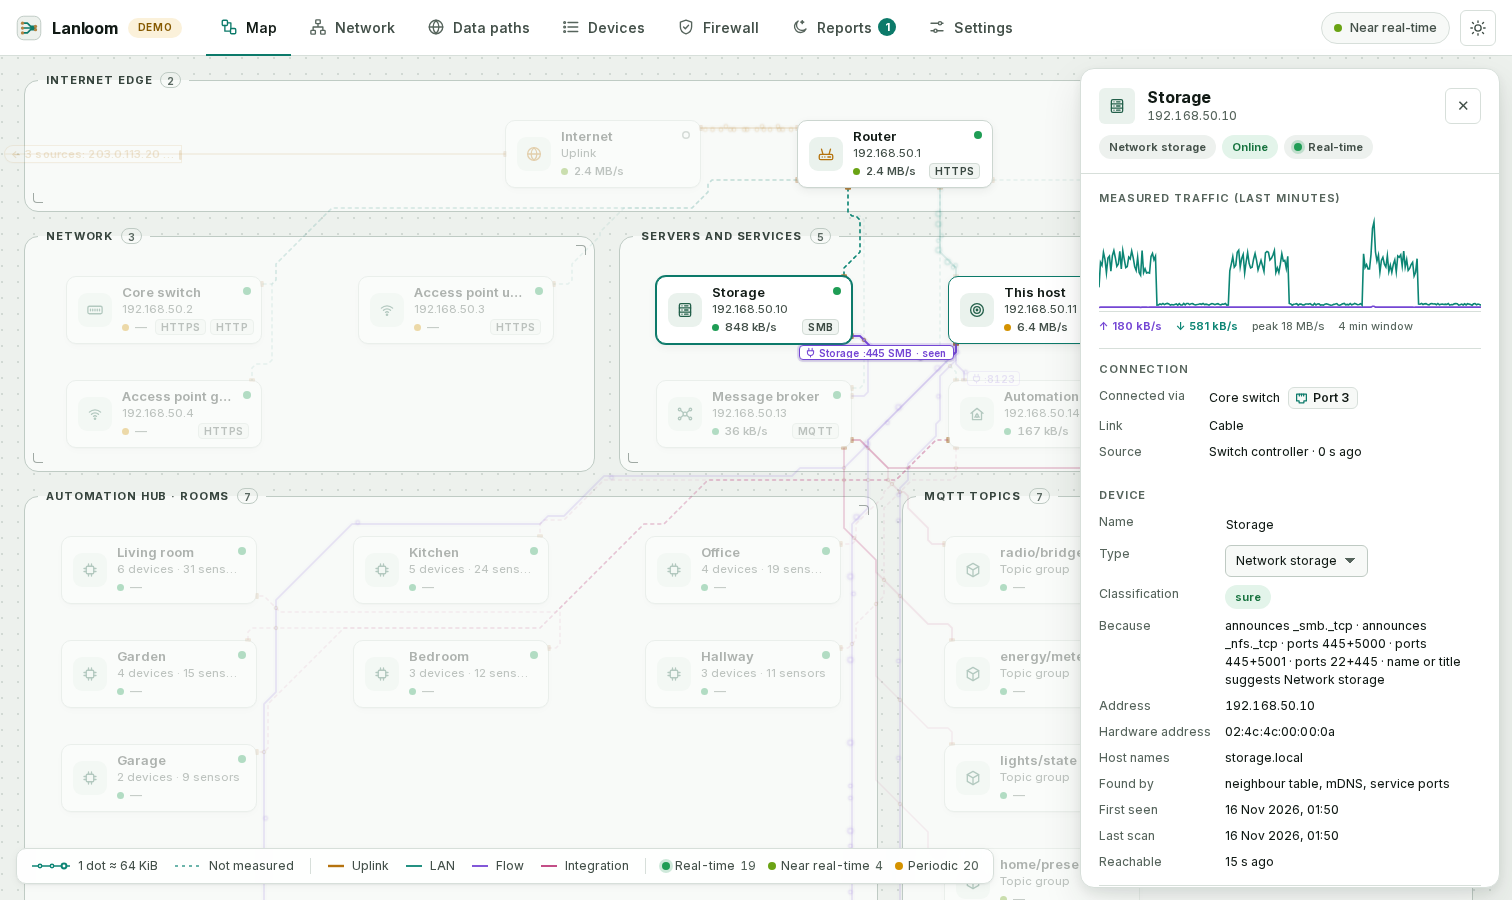
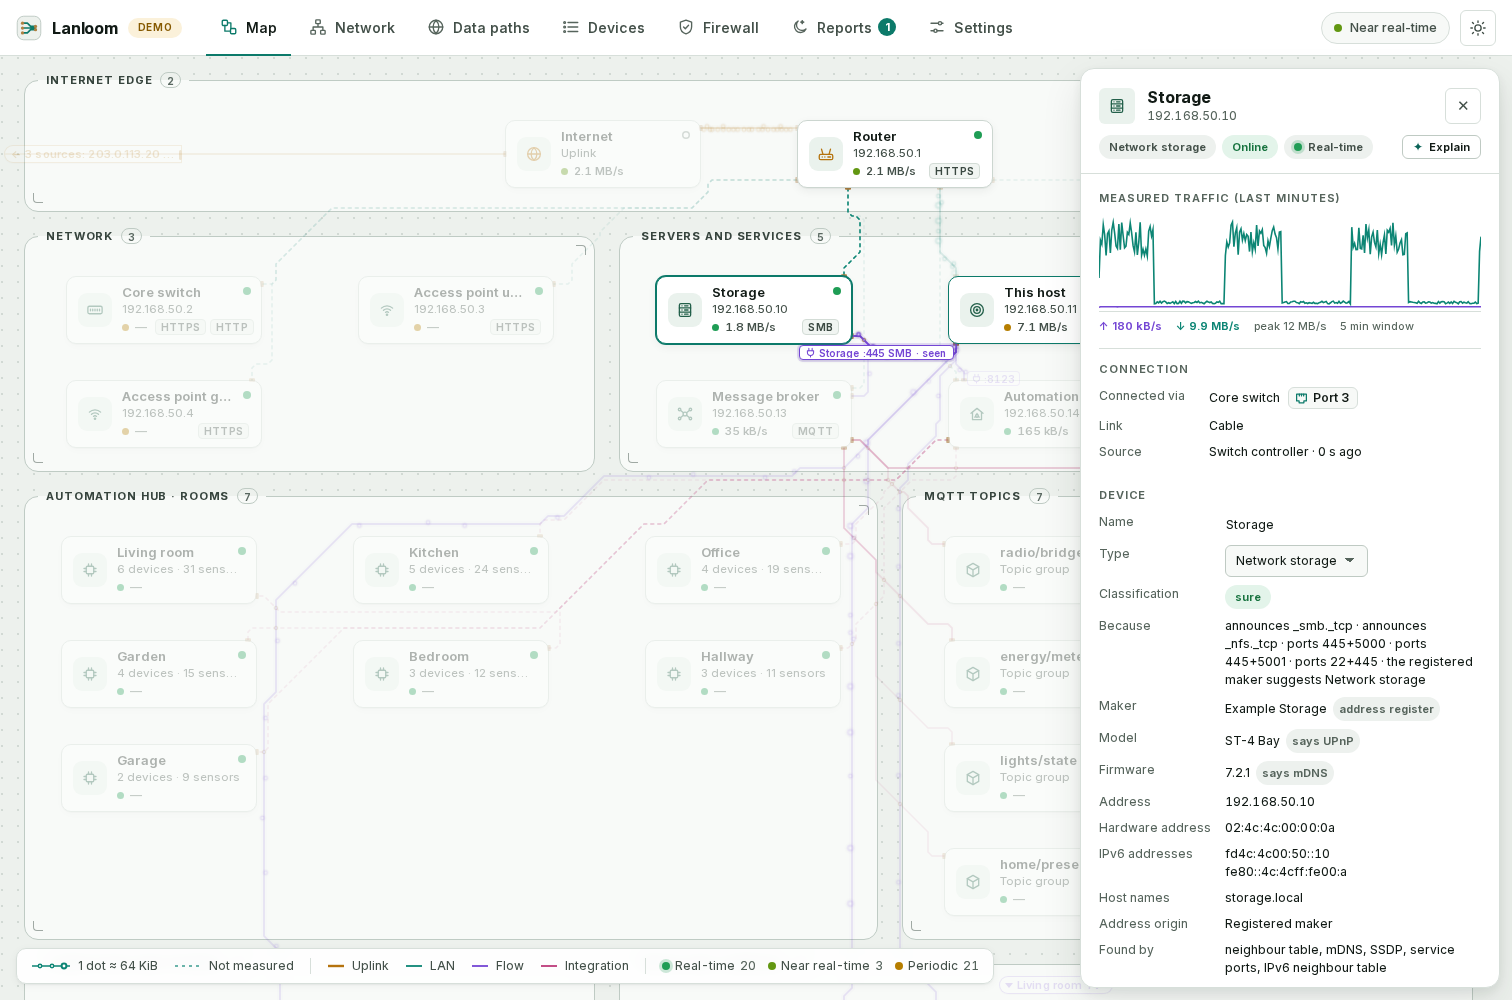
Lanloom 1.13.0: find every device - maker, model, firmware, address origin, one device with several interfaces, IPv6 neighbours, WS-Discovery, NetBIOS, LLMNR, optional SNMP; docs and screenshots

diff --git a/lanloom/web/js/views.js b/lanloom/web/js/views.js
@@ -265,7 +265,7 @@
     if (!items.length && !sugg.length) return null;
     return section(t('ident.title'), h('div', { class: 'stack-sm' },
       items.length ? h('ul', { class: 'plain-list ident-list' }, items) : null,
-      sugg.length ? h('div', {}, h('p', { class: 'muted' }, t('ident.suggest_lead')), h('ul', { class: 'plain-list ident-list' }, sugg)) : null));
+      sugg.length ? h('div', {}, h('p', { class: 'muted ident-lead' }, t('ident.suggest_lead')), h('ul', { class: 'plain-list ident-list' }, sugg)) : null));
   }
 
   // ------------------------------------------------------------------ physical connection (manual > controller > LLDP > address table)

diff --git a/lanloom/web/css/app.css b/lanloom/web/css/app.css
@@ -357,3 +357,4 @@ input:focus, .select:focus { outline: none; border-color: var(--ll-accent); box-
 .ident-row > div { min-width: 0; }
 .ident-acts { display: inline-flex; flex-wrap: wrap; gap: 6px; justify-content: flex-end; }
 @media (max-width: 560px) { .ident-row { flex-direction: column; } .ident-acts { justify-content: flex-start; } }
+.ident-lead { font-size: var(--ll-fs-sm); margin: 0 0 4px; }

diff --git a/tests/test_scan_e1_protocols.py b/tests/test_scan_e1_protocols.py
@@ -61,7 +61,7 @@ def test_read_ndp_never_raises(monkeypatch):
 _MATCH = (b'<?xml version="1.0"?><s:Envelope xmlns:s="http://www.w3.org/2003/05/soap-envelope"'
           b' xmlns:a="http://schemas.xmlsoap.org/ws/2004/08/addressing"'
           b' xmlns:d="http://schemas.xmlsoap.org/ws/2005/04/discovery"'
-          b' xmlns:i="http://schemas.microsoft.com/windows/pnpx/2005/10"><s:Body><d:ProbeMatches><d:ProbeMatch>'
+          b' xmlns:i="http://example.org/pnpx/2005/10"><s:Body><d:ProbeMatches><d:ProbeMatch>'
           b'<a:EndpointReference><a:Address>urn:uuid:11111111-2222-3333-4444-555555555555</a:Address>'
           b'</a:EndpointReference><d:Types>i:NetworkVideoTransmitter wsdp:Device</d:Types>'
           b'<d:XAddrs>http://192.168.77.12:80/onvif/device_service ftp://x/y</d:XAddrs>'

diff --git a/lanloom/identity.py b/lanloom/identity.py
@@ -36,7 +36,7 @@ TXT_MAKER = ("manufacturer", "usb_mfg", "mfg", "vendor", "mf")
 TXT_FIRMWARE = ("fw", "fwversion", "fw_version", "firmware", "swversion", "sw", "version", "ver", "vs")
 _VERSION_RX = re.compile(r"(?:\bv(?:er(?:sion)?)?\.?\s*|\bfirmware\s*|\brelease\s*)(\d+(?:\.\d+){1,3}[a-z0-9-]*)", re.I)
 _BARE_VERSION_RX = re.compile(r"\b(\d+\.\d+(?:\.\d+){0,2})\b")
-GENERIC_NAMES = {"localhost", "workgroup", "android", "iphone", "ipad", "unknown", "esp", "espressif", "device", "host",
+GENERIC_NAMES = {"localhost", "workgroup", "unknown", "esp", "device", "host", "phone", "tablet", "laptop", "desktop",
                  "default", "user", "admin", "router", "gateway", "printer", "camera", "tv"}
 SOURCES_RANK = {"upnp": 3, "mdns": 3, "snmp": 3, "wsd": 2, "oui": 1}
 

diff --git a/tests/test_identity.py b/tests/test_identity.py
@@ -196,8 +196,8 @@ def test_name_evidence_needs_both_devices_current():
     assert identity.groups([a, b])["members"] == {}
     b["last_scan"] = 5
     assert [m["reasons"] for m in identity.groups([a, b])["members"].values()] == [["same_mdns"]]
-    c = dev("d-c", "02:00:00:00:00:03", hostnames=["android.local"], scan=5)
-    d = dev("d-d", "02:00:00:00:00:04", hostnames=["android.local"], scan=5)
+    c = dev("d-c", "02:00:00:00:00:03", hostnames=["device.local"], scan=5)
+    d = dev("d-d", "02:00:00:00:00:04", hostnames=["device.local"], scan=5)
     assert identity.groups([c, d])["members"] == {}                              # generic names never merge
 
 

diff --git a/docs/DISCOVERY.md b/docs/DISCOVERY.md
@@ -1,0 +1,84 @@
+# Finding every device
+
+How Lanloom finds devices, recognises who they are, and notices that two addresses belong to one device. Everything
+on this page runs locally; nothing is looked up on the internet.
+
+## What the scan asks
+
+The default gentle scan needs no privileges. In this order:
+
+| Step | What is sent | What comes back |
+| --- | --- | --- |
+| Neighbours | one empty UDP datagram to port 9 of each address, then the kernel's neighbour table is read | IPv4 address and hardware address of every device that is awake |
+| IPv6 neighbours | nothing: the kernel's IPv6 neighbour cache is only read | the IPv6 addresses a device already used (link-local and others), attached to the device with the same hardware address |
+| mDNS / DNS-SD | browse queries for common service types | names, services and the TXT records a device announces (model, firmware where the device tells it) |
+| SSDP / UPnP | one search request; descriptions only from the private address that answered, at most 64 KiB, no DOCTYPE or ENTITY | friendly name, maker, model, unique device id |
+| WS-Discovery | one multicast probe | device types (computer, printer, scanner, video transmitter) |
+| Service ports | a TCP connect to 26 well-known ports (deep scan: about 218, only with your consent) | open services, web page title and `Server` header |
+| NetBIOS | one node-status request to each found device (UDP 137) | computer name and workgroup |
+| LLMNR | one reverse-name request, only to devices that still have no name | a host name |
+| SNMP (off by default) | one read request for three system values with the factory community, only if you switch it on | system description (model, firmware), system name, object id |
+
+Limits as before: about 40 new connections per second, 24 at once, 4 per device. Every UDP request goes out exactly
+once per device and only answers from that device count. No raw sockets, no ICMP, no logins, never public ranges.
+
+### The SNMP switch
+
+Settings › General › Network scan and the setup wizard have the switch *Also ask devices with the default SNMP read community*.
+It is off by default because the factory community is a shared secret in name only; some security devices log such
+requests. When it is on, Lanloom reads `sysDescr`, `sysObjectID` and `sysName` and nothing else. The choice is kept
+for automatic rescans. For devices with their own community or SNMPv3, add an SNMP connection instead.
+
+## Who is this device?
+
+The device card shows:
+
+- **Maker**, with where it comes from: what the device says itself (UPnP, mDNS, SNMP) wins over the address register.
+- **Model** and **firmware**, when the device tells them.
+- **Address origin**:
+  - *Registered maker*: the first part of the hardware address is in the public IEEE register.
+  - *Private or random address*: the address is locally administered. Phones and laptops use such addresses for
+    privacy, virtual machines often do too. Lanloom never assigns a maker to them.
+  - *Unregistered address*: a globally unique address whose prefix is in no register.
+  - *Only an IP address is known*: the device sits in a routed network without a neighbour entry.
+- **IPv6 addresses** and the **NetBIOS name**, when found.
+
+The register is the public IEEE list of MA-L, MA-M and MA-S blocks. It ships with the image as a compact file
+(`lanloom/data/oui.bin.gz`, built by `scripts/build_oui.py`), is checked by a checksum when it loads, and is
+renewed with each release through the normal update. Lanloom never downloads it at run time. If you want a newer
+table without updating, build it with the script and put it into the data directory as `oui/oui.bin.gz`; it is
+used only when it passes the same checks and is newer than the bundled one.
+
+The kind of a device (router, printer, camera …) still comes from the rule-based classifier. New evidence: WS-Discovery
+types, a NetBIOS computer name, SNMP answers, model words in TXT records and, weakly, neutral words in the registered
+maker's name (that alone never decides).
+
+Every device record also keeps the raw identification features (address prefix, UPnP device id and model,
+SNMP object id and description, WS-Discovery types, NetBIOS name) for the inventory.
+
+## One device, several interfaces
+
+A storage box with two network cards, a laptop on cable and radio, or the second port of a mobile router appear as
+two addresses. Lanloom puts them together when the evidence is strong:
+
+| Evidence | Weight |
+| --- | --- |
+| same UPnP unique device id | strong |
+| same SNMP system name and object id | strong |
+| same NetBIOS computer name (both seen in the latest scan) | medium |
+| same mDNS host name (both seen in the latest scan) | medium |
+| neighbouring hardware addresses of the same registered block | weak; stronger with the same switch port, and with first sightings within ten minutes |
+
+At 60 % or more the second interface is drawn as part of the first device: the map shows one component, its card
+lists the interface with the reasons. Between 30 % and 60 % the card shows a suggestion with *Same device* and
+*Different devices*. *Show separately* undoes an automatic grouping. Your choice is kept until you change it;
+nothing is deleted. Name-based evidence counts only while both devices are current, so a replaced device is not
+mistaken for its successor. Private (random) addresses never count as neighbours.
+
+Changing a grouping needs the operator role and is written to the audit log.
+
+## New devices in the nightly report
+
+A device seen for the first time is listed with its address and, where known, the registered maker; a private
+address or an address in no register is named as such. A second interface of a device that is already known is not
+reported as a new device.

diff --git a/README.md b/README.md
@@ -195,6 +195,7 @@ Settings > Appearance > Colour theme switches the accent palette of the whole ap
 <td><img src="docs/screenshots/phone-map-dark.png" width="200" alt="Phone map, dark"></td>
 <td><img src="docs/screenshots/phone-detail.png" width="200" alt="Phone component card"></td>
 <td><img src="docs/screenshots/phone-connection.png" width="200" alt="Phone: connection of a device"></td>
+<td><img src="docs/screenshots/phone-identity.png" width="200" alt="Phone: two addresses that may be one device"></td>
 <td><img src="docs/screenshots/phone-devices.png" width="200" alt="Phone device list"></td>
 <td><img src="docs/screenshots/phone-paths.png" width="200" alt="Phone: data paths"></td>
 <td><img src="docs/screenshots/phone-paths-full.png" width="200" alt="Phone: world map in full screen"></td>
@@ -237,13 +238,26 @@ The default **gentle scan** needs no privileges and sends very little:
 - It reads the host's kernel neighbour table and nudges addresses with a single UDP datagram to port 9, so the kernel resolves them. No raw sockets, no ICMP.
 - It browses mDNS/DNS-SD and sends an SSDP M-SEARCH. Device descriptions are fetched only from the responding private address, capped at 64 KiB, and XML with DOCTYPE or ENTITY declarations is refused.
 - It tries a TCP connect to 26 well-known service ports and reads the page title and `Server` header of web services (`GET /` only).
+- It reads the kernel's IPv6 neighbour cache (nothing is sent), sends one WS-Discovery probe, and asks each found device once for its NetBIOS name and, if it has no name yet, once by LLMNR.
+- Asking devices with the factory SNMP community is a separate switch and off by default.
 - Limits: about 40 new connections per second, 24 concurrent, 4 per host. A /24 takes roughly 10 to 60 seconds.
 
 The **deep scan** checks about 218 common ports with the same limits and only runs with your explicit consent. Lanloom never scans public ranges, never reaches into the internet, and never tries logins. Only private ranges up to a /22 (1024 addresses) are accepted.
 
 A presence check runs every 2 minutes (one TCP connect to a known open port, or a look at the neighbour table). A gentle rescan runs automatically every N hours (default 6).
 
-Devices are classified by deterministic rules (gateway or self role, DNS-SD types, UPnP device types, port combinations, neutral words in titles and host names). A score of 0.6 or more is "sure", 0.3 or more "probable", otherwise "unknown".
+Devices are classified by deterministic rules (gateway or self role, DNS-SD types, UPnP and WS-Discovery device types, port combinations, neutral words in titles and host names). A score of 0.6 or more is "sure", 0.3 or more "probable", otherwise "unknown".
+
+### Finding everything: maker, model, interfaces
+
+Every device card shows the maker (what the device says itself, otherwise the public IEEE address register that ships with the image and is never fetched at run time), model, firmware, IPv6 addresses and the origin of the hardware address. A private (random) address never gets a maker. Two addresses of one device (two network cards, cable and radio) are drawn as one component when the evidence is strong (same UPnP device id, same SNMP system name, same NetBIOS or mDNS name, neighbouring addresses on the same port); weaker cases are offered as a suggestion, and every grouping can be undone. The nightly report names the maker of new devices and does not report a second interface of a known device as new. Details: [docs/DISCOVERY.md](docs/DISCOVERY.md).
+
+<table>
+<tr>
+<td><img src="docs/screenshots/identity-light.png" width="380" alt="Device card with maker, model, firmware and a second interface, light"></td>
+<td><img src="docs/screenshots/identity-dark.png" width="380" alt="The same card, dark"></td>
+</tr>
+</table>
 
 ## Live data and integrations
 
@@ -292,6 +306,7 @@ Image tags: version tags such as `:1.1.0` are immutable; `:1` and `:latest` move
 
 - [docs/INSTALL.md](docs/INSTALL.md): installation on each platform, configuration, backup, uninstall
 - [docs/ACCESS.md](docs/ACCESS.md): users and roles, invitations, two-step sign-in, sessions, audit log, authentication proxy, sub-path
+- [docs/DISCOVERY.md](docs/DISCOVERY.md): what the scan asks, maker and model recognition, the address register, one device with several interfaces
 - [docs/TOPOLOGY.md](docs/TOPOLOGY.md): physical topology, sources, view-only account, how shared ports are read
 - [docs/DATA-PATHS.md](docs/DATA-PATHS.md): the data paths world map, what is counted where, unusual behaviour, privacy, country data ([IP Geolocation by DB-IP](https://db-ip.com), CC BY 4.0)
 - [docs/NIGHTLY-REPORT.md](docs/NIGHTLY-REPORT.md): the nightly report, its sections, the archive, optional delivery, adding a section

diff --git a/CHANGELOG.md b/CHANGELOG.md
@@ -2,6 +2,19 @@
 
 All notable changes to this project are documented here. The format follows [Keep a Changelog](https://keepachangelog.com/en/1.1.0/) and the project uses [Semantic Versioning](https://semver.org/).
 
+## [1.13.0] – 2026-11-16
+
+### Added
+- **Maker, model and firmware on every device card**: what the device says itself (UPnP description, mDNS TXT records, SNMP system description) wins over the address register; the source of each value is shown. See [docs/DISCOVERY.md](docs/DISCOVERY.md).
+- **Offline address register**: the public IEEE MA-L, MA-M and MA-S lists ship with the image as a compact, checksummed file (about 450 KB, 54,000 prefixes, longest prefix wins) and are renewed with each release. Nothing is downloaded at run time; a newer table can be dropped into the data directory. Private (random) addresses never get a maker.
+- **Address origin** per device: registered maker, private or random address, unregistered address, or only an IP address known.
+- **One device, several interfaces**: two addresses of one device (two network cards, cable and radio) are drawn as one component when the evidence is strong (same UPnP device id, same SNMP system name, same NetBIOS or mDNS name, neighbouring hardware addresses on the same port or first seen together). The card lists the interfaces with reasons and confidence; weaker cases are offered as suggestions (*Same device* / *Different devices*), and *Show separately* undoes a grouping. Changing it needs the operator role and is written to the audit log.
+- **More ways to find devices**, all gentle and without privileges: the kernel's IPv6 neighbour cache is read (nothing is sent) and IPv6 addresses are attached to their devices; one WS-Discovery probe; one NetBIOS name request per found device; one LLMNR reverse-name request for devices without a name. A new scan step *Names and identity*.
+- **Optional SNMP with the factory community** (off by default, in the wizard and in Settings › General › Network scan): reads only the system description, object id and name.
+- The classifier also weighs WS-Discovery types, NetBIOS names, SNMP answers, model words in TXT records and, weakly, neutral words in the maker's name.
+- Each device keeps its raw identification features (address prefix, UPnP id and model, SNMP object id and description, WS-Discovery types, NetBIOS name) for the inventory.
+- Nightly report: new devices name the registered maker of their address, or say that the address is private or in no register; a second interface of a known device is no longer reported as a new device.
+- Demo mode shows makers from a fictional register, a storage box with two interfaces, a grouping suggestion, IPv6 addresses, a NetBIOS name, WS-Discovery types and SNMP data.
 ## [1.12.1] – 2026-11-16
 
 ### Fixed

diff --git a/THIRD-PARTY-NOTICES.md b/THIRD-PARTY-NOTICES.md
@@ -54,4 +54,5 @@ Where a package offers a choice of licenses ("OR"), the choice is yours. Copyrig
 | Component | License |
 | --- | --- |
 | IP to Country Lite database by DB-IP (`lanloom/data/geo-country.bin.gz`, converted to a compact format by `scripts/build_geodb.py`). Attribution: [IP Geolocation by DB-IP](https://db-ip.com) | Creative Commons Attribution 4.0 International ([CC BY 4.0](https://creativecommons.org/licenses/by/4.0/)). The attribution is also shown in the app (Data paths view). |
+| Hardware address register (`lanloom/data/oui.bin.gz`, converted to a compact format by `scripts/build_oui.py`) from the public MA-L, MA-M and MA-S listings of the [IEEE Registration Authority](https://standards-oui.ieee.org/). Organisation names are shortened (legal-form suffixes removed). | Public listing of the IEEE Registration Authority, redistributed as factual data |
 | World base map (`lanloom/web/js/worldmap.js`), simplified from Natural Earth admin-0 countries, 1:110m shapes and 1:50m label points, built with `scripts/build_worldmap.py` | Public domain (Natural Earth) |
